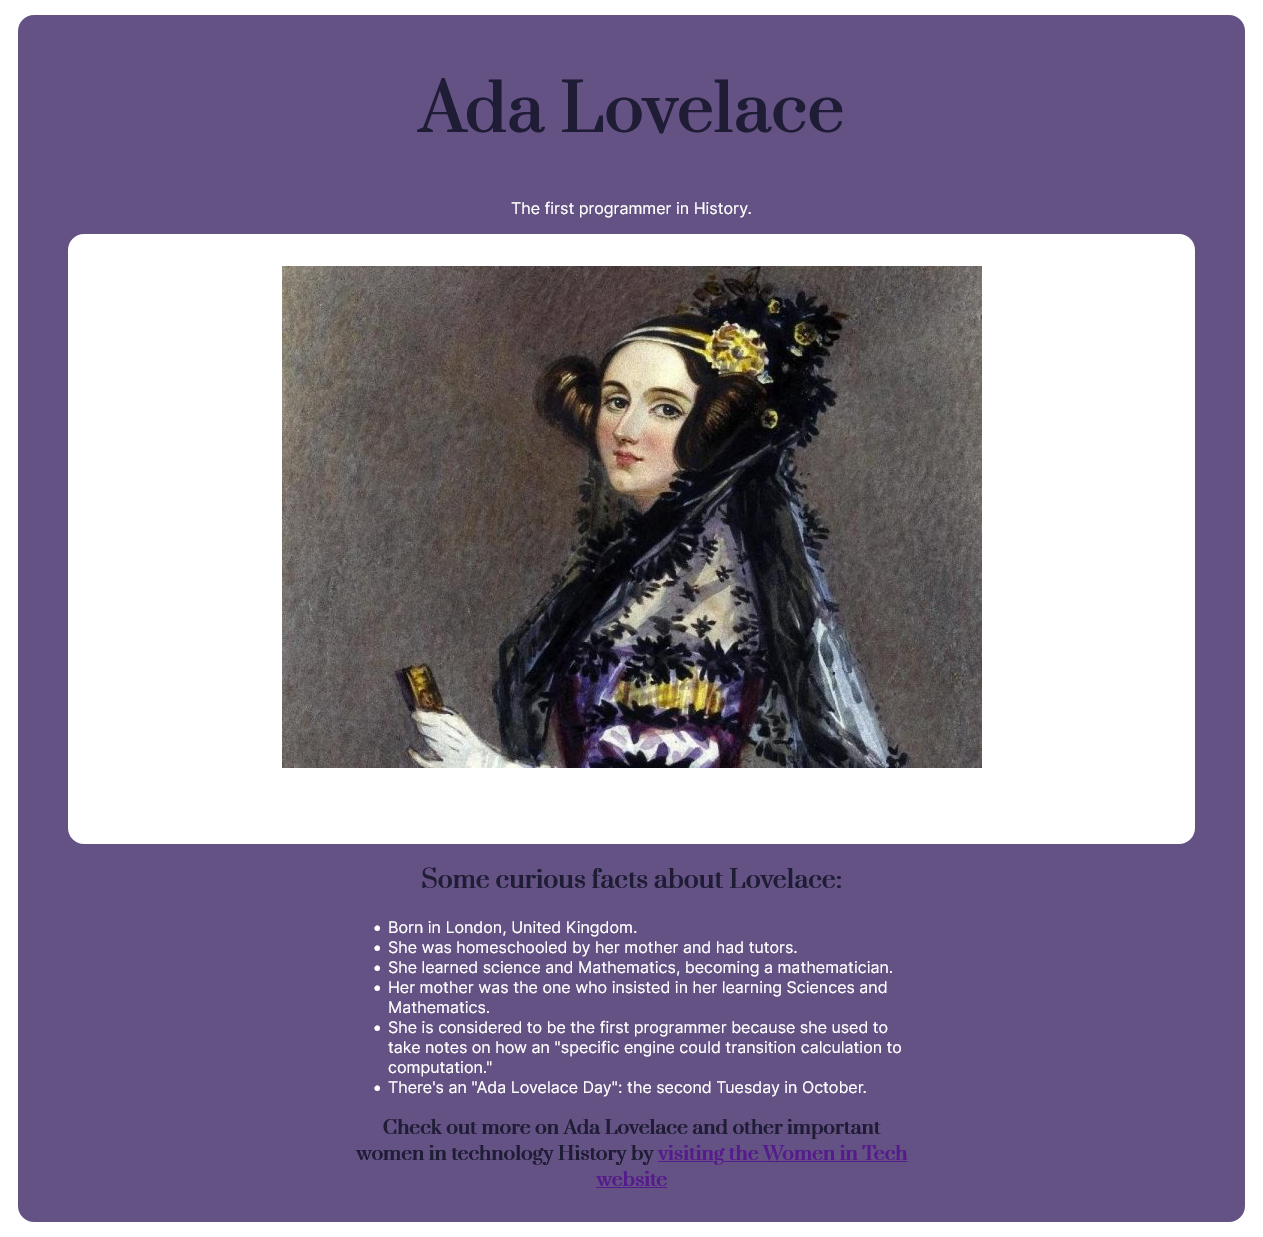
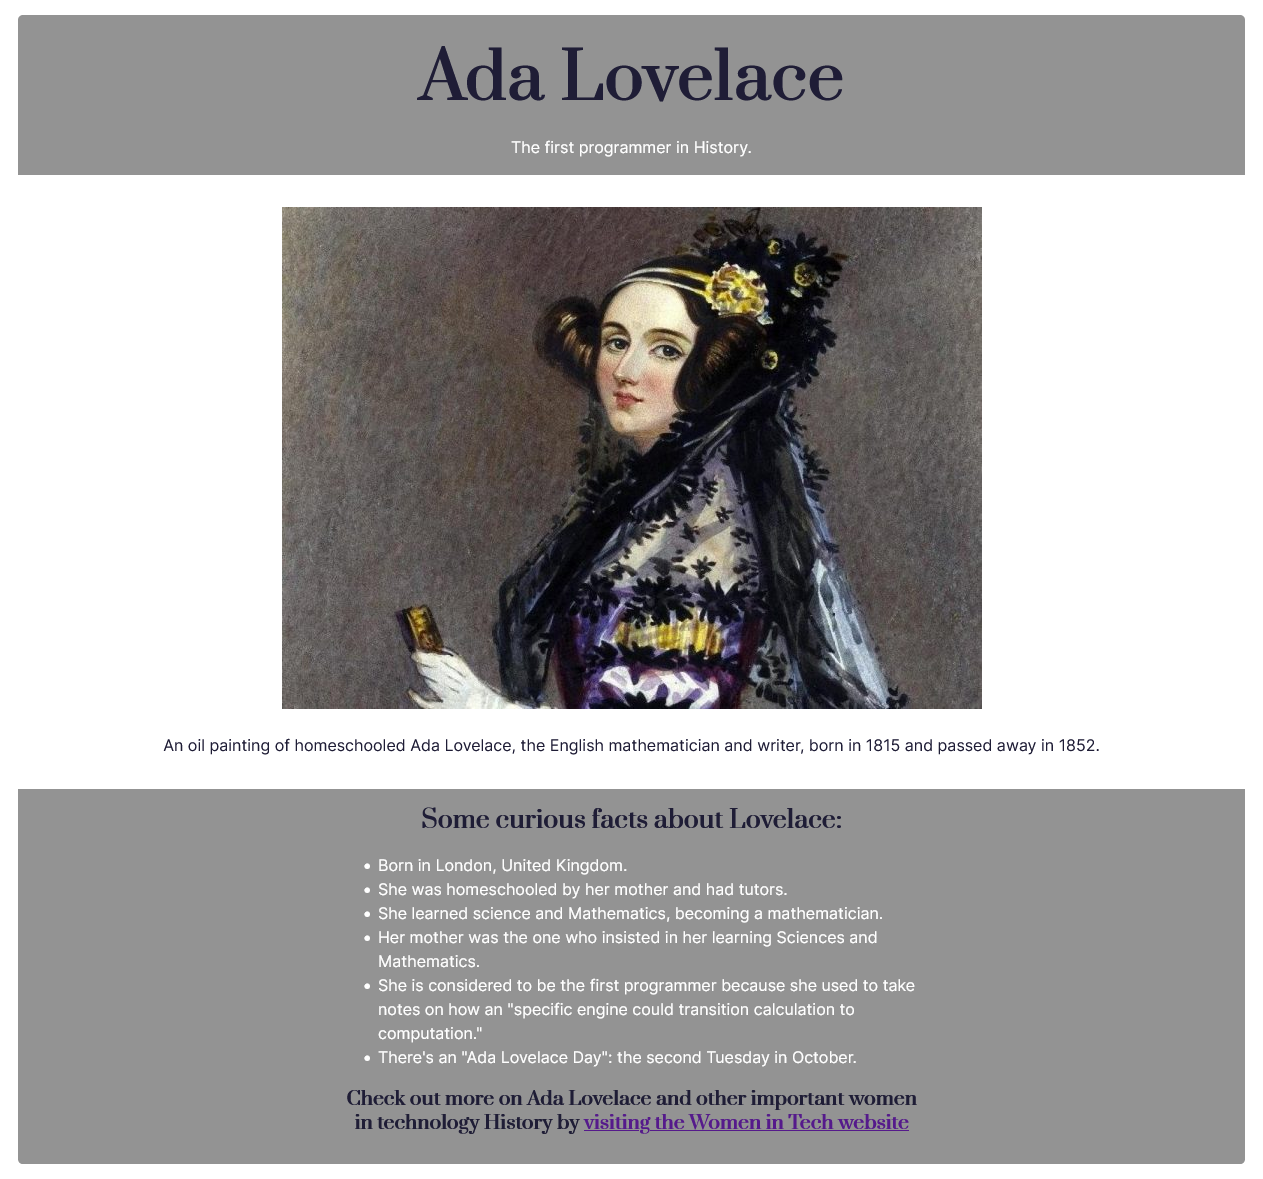
Redesigned the colors and layout

diff --git a/styles.css b/styles.css
@@ -3,12 +3,12 @@
 body {
   background: white;
   color: white;
-  font-family: Inter;]
-  line-height: 5;
+  line-height: 1.5rem;
+  font-family: "Inter";
 }
 
 h1, h2, h3 {
-  font-family: Prata, serif;
+  font-family: "Prata", serif;
   text-align: center;
   color: #1F1D36;
 }
@@ -24,7 +24,7 @@ p {
 #img-div {
   background: white;
   padding: 2rem;
-  border-radius: 1rem;
+  margin: 0;
 }
 
 #image {
@@ -37,6 +37,7 @@ p {
 #img-caption {
   margin-top: 1.5rem;
   text-align: center;
+  color: #1F1D36;
 }
 
 #tribute-info {
@@ -45,9 +46,9 @@ p {
 
 #main {
   margin: 15px 10px;
-  border-radius: 1rem;
-  background-color: #645284;
-  padding: 10px;
+  border-radius: 0.3rem;
+  background-color: #939393;
+  padding: 10px 0px 10px 0px;
 }
 
 #tribute-link:hover {
